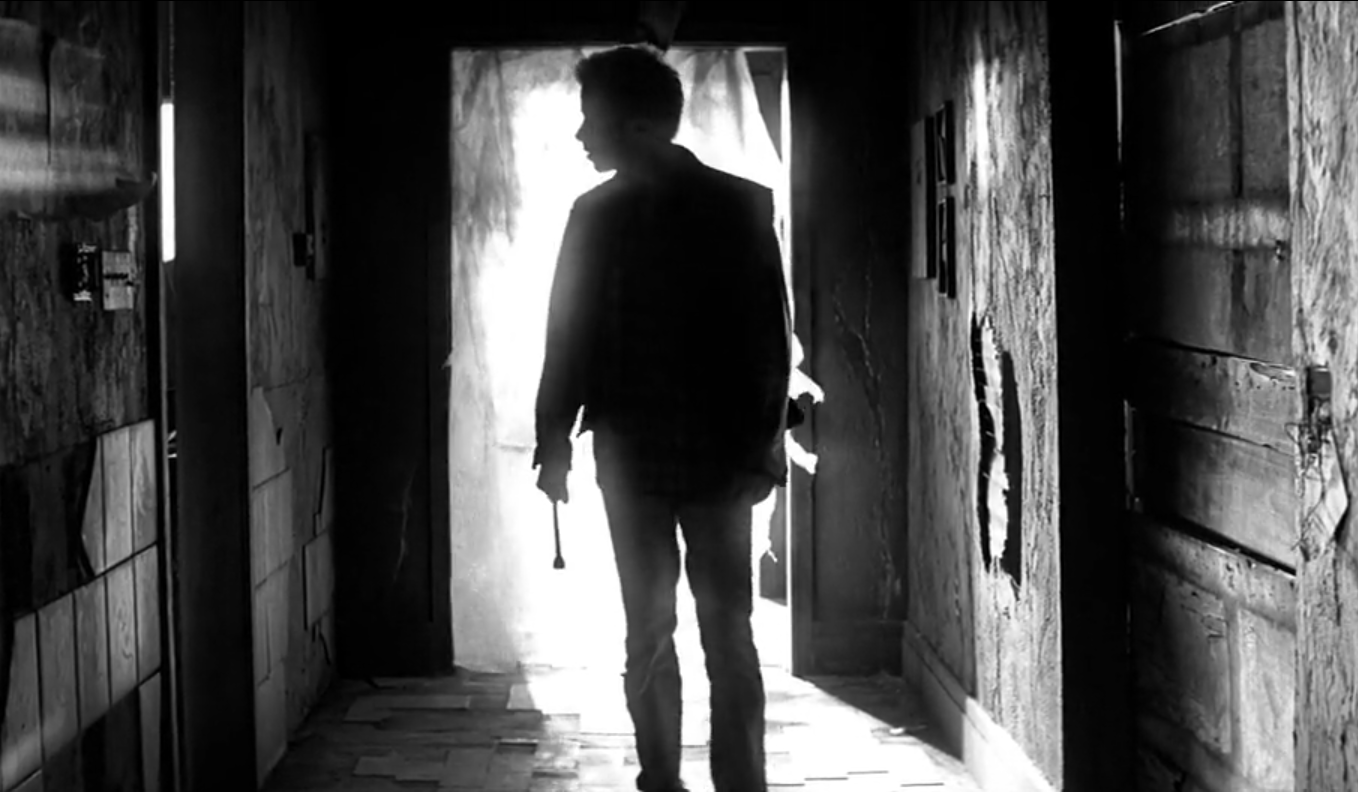
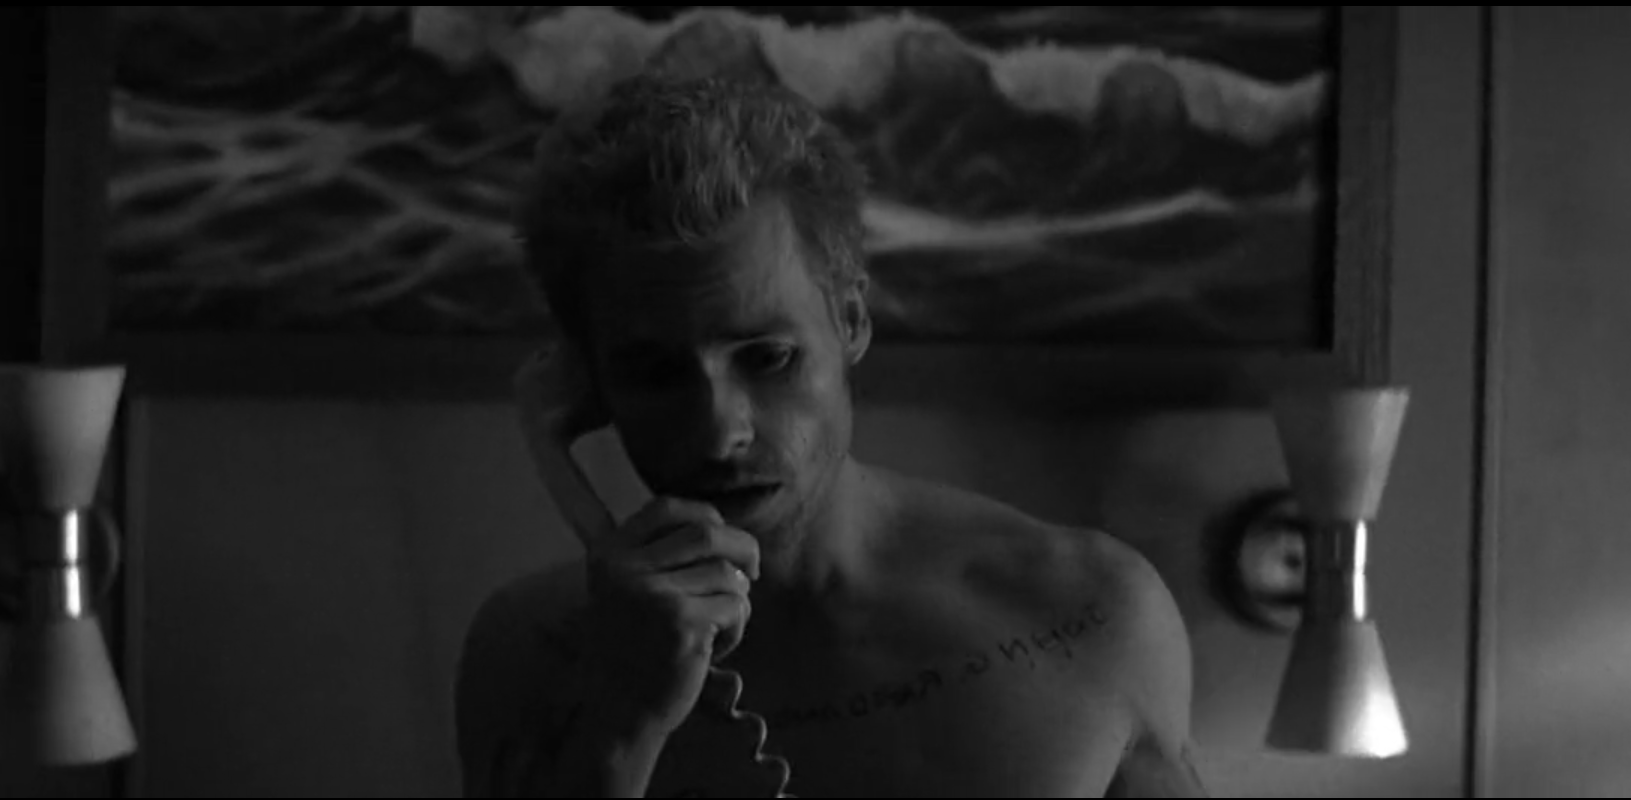
added assets, changed count, removed learnings

diff --git a/memento-presentation/src/slides/Slide16Learnings.tsx b/memento-presentation/src/slides/Slide16Learnings.tsx
@@ -27,10 +27,10 @@ export default function Slide16Learnings() {
         <AssetImage src="/assets/backgrounds/void-bg.jpg" alt="Atmospheric dark background" placeholderLabel="Atmospheric Scene"
           style={{ width:'100%', height:'100%', objectFit:'cover', filter:'brightness(0.5) sepia(0.3)' }} />
         <div style={{ position:'absolute', inset:0, background:'linear-gradient(to right, transparent 40%, var(--color-warm-dark) 100%)' }} />
-        <div style={{ position:'absolute', bottom:'8%', left:'50%', transform:'translateX(-50%) rotate(-90deg)', transformOrigin:'center',
+        {/* <div style={{ position:'absolute', bottom:'18%', left:'10%', transform:'translateX(-50%) rotate(-90deg)', transformOrigin:'center',
           fontFamily:'var(--font-body)', fontSize:FS.tag, letterSpacing:'0.3em', textTransform:'uppercase', color:'rgba(196,180,154,0.4)', whiteSpace:'nowrap' }}>
           Key Learnings
-        </div>
+        </div> */}
       </motion.div>
 
       <div style={{ padding:'6% 7% 6% 4%', display:'flex', flexDirection:'column', justifyContent:'center', zIndex:1 }}>

diff --git a/memento-presentation/src/components/SlideCounter.tsx b/memento-presentation/src/components/SlideCounter.tsx
@@ -22,7 +22,7 @@ export default function SlideCounter({ current, total }: SlideCounterProps) {
         color: 'var(--color-white)',
         letterSpacing: '0.05em',
       }}>
-        {pad(current)}
+        {pad(current +1 )}
       </span>
       <span style={{
         fontFamily: 'var(--font-mono)',
